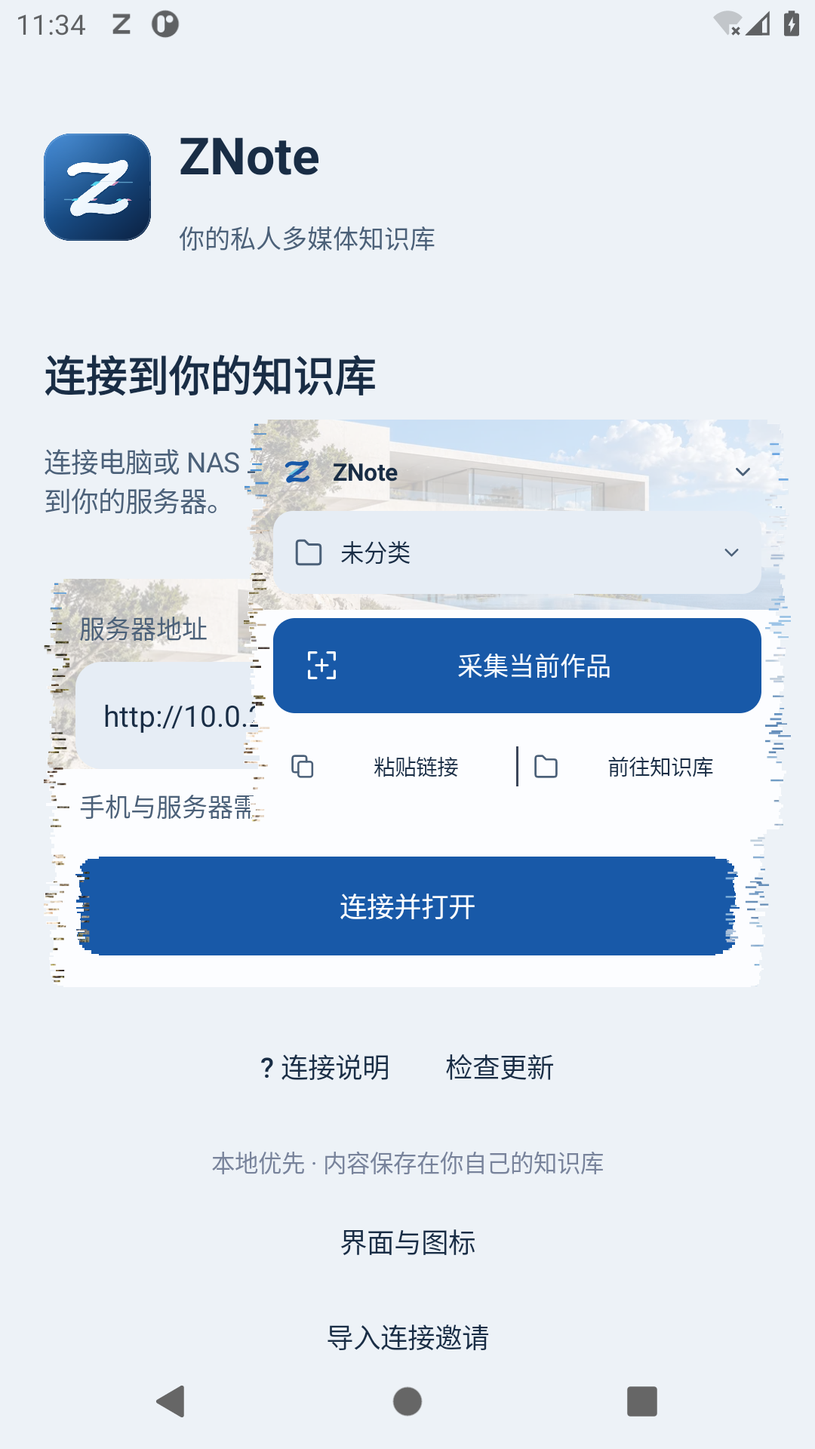
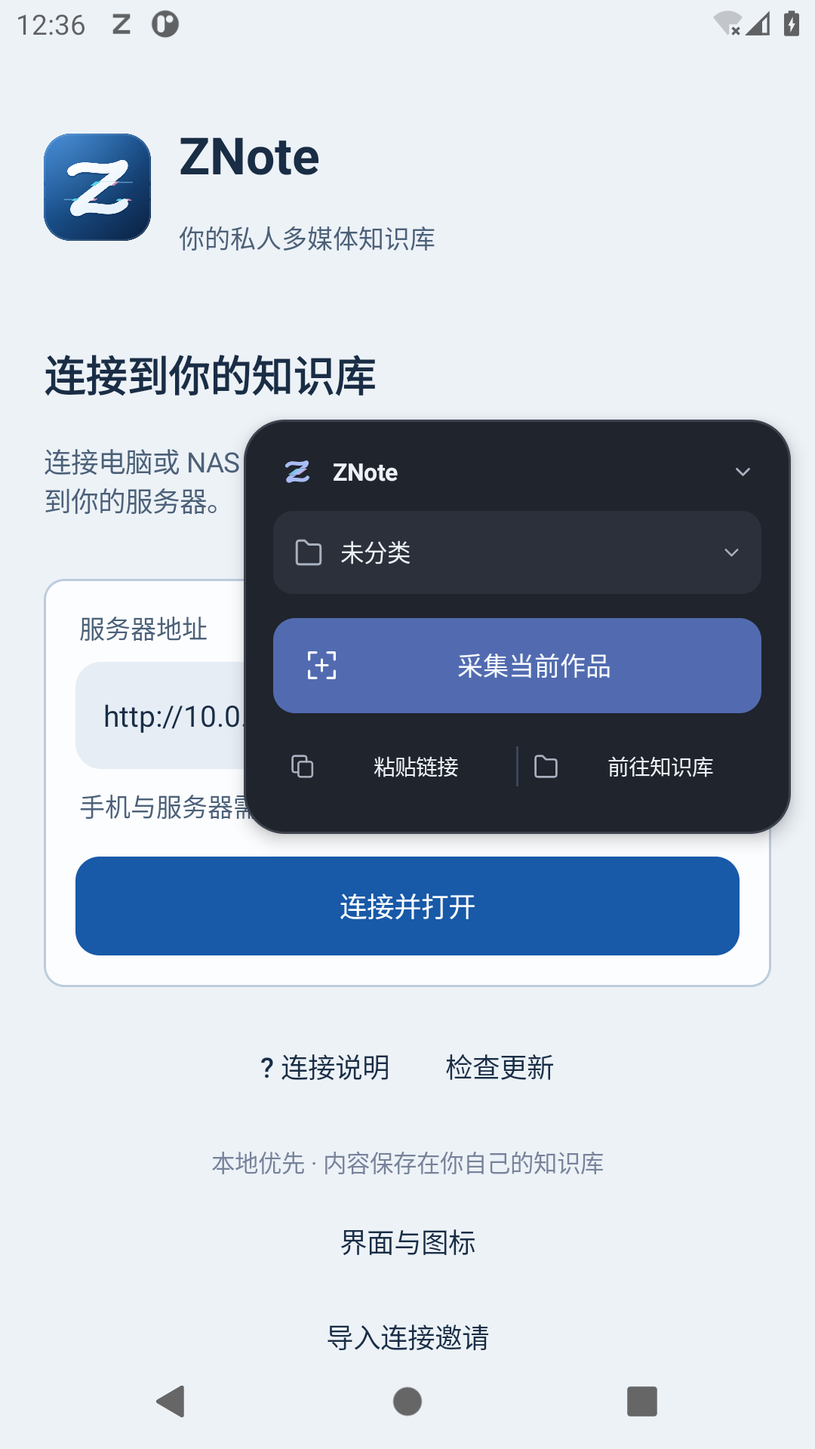
Polish Android capture panels and show the bookmark workflow (#4)
* Refine Android capture with smooth dark panels and document copy-link flow

* Correct mixed-platform retention version validation

* Keep the edge bookmark clean without glitch stripe decoration

diff --git a/clients/android/app/src/main/java/io/github/borderarea01/znote/NativeAppearance.java b/clients/android/app/src/main/java/io/github/borderarea01/znote/NativeAppearance.java
@@ -25,46 +25,16 @@ final class NativeAppearance {
     }catch(Exception e){throw new IllegalArgumentException("外观未保存，请重试",e);}}
     private static void launcher(Context c){PackageManager pm=c.getPackageManager();ComponentName classic=new ComponentName(c,c.getPackageName()+".LauncherClassic"),alternate=new ComponentName(c,c.getPackageName()+".LauncherGlitch");ComponentName enabled=glitch?alternate:classic,disabled=glitch?classic:alternate;try{if(Build.VERSION.SDK_INT>=33)pm.setComponentEnabledSettings(java.util.Arrays.asList(new PackageManager.ComponentEnabledSetting(enabled,PackageManager.COMPONENT_ENABLED_STATE_ENABLED,PackageManager.DONT_KILL_APP),new PackageManager.ComponentEnabledSetting(disabled,PackageManager.COMPONENT_ENABLED_STATE_DISABLED,PackageManager.DONT_KILL_APP)));else{pm.setComponentEnabledSetting(enabled,PackageManager.COMPONENT_ENABLED_STATE_ENABLED,PackageManager.DONT_KILL_APP);pm.setComponentEnabledSetting(disabled,PackageManager.COMPONENT_ENABLED_STATE_DISABLED,PackageManager.DONT_KILL_APP);}}catch(RuntimeException ignored){/* The in-app icon still changes if a launcher caches its shortcut. */}}
     static void choose(Activity a,Runnable changed){load(a);String[] labels={"经典","建筑故障"};int current=glitch?1:0;new AlertDialog.Builder(a).setTitle("界面外观").setSingleChoiceItems(labels,current,(d,which)->{d.dismiss();String next=which==1?"glitch":"minimal";new AlertDialog.Builder(a).setTitle("明暗模式").setSingleChoiceItems(new String[]{"跟随系统","浅色","夜间"},"system".equals(mode)?0:"light".equals(mode)?1:2,(dialog,i)->{dialog.dismiss();String selected=i==0?"system":i==1?"light":"dark";java.util.concurrent.ExecutorService worker=java.util.concurrent.Executors.newSingleThreadExecutor();worker.execute(()->{try{Bundle result=a.getContentResolver().call(android.net.Uri.parse("content://"+a.getPackageName()+".capture-session"),"appearance",new JSONObject().put("style",next).put("mode",selected).toString(),null);a.runOnUiThread(()->{if(!a.isFinishing()){apply(a,next,selected);changed.run();}});}catch(Exception e){a.runOnUiThread(()->Toast.makeText(a,"外观未保存，请重试",Toast.LENGTH_LONG).show());}finally{worker.shutdown();}});}).setNegativeButton("取消",null).show();}).setNegativeButton("取消",null).show();}
-    static Drawable panel(Context c,int radius){return glitch?new Panel(c,radius):NativeUi.shape(c,CaptureVisuals.SURFACE,radius);}
-    static Drawable control(Context c,int color,int radius){return glitch&&Color.alpha(color)>0?new Control(c,color,radius):NativeUi.shape(c,color,radius);}
-    /** A static material silhouette. Paths are rebuilt only when bounds change;
-     * labels, touch targets and user media are never copied or displaced. */
-    private static Bitmap photo;
-    private static Bitmap photo(Context c){if(photo==null)photo=BitmapFactory.decodeResource(c.getResources(),R.drawable.glitch_architecture);return photo;}
-    /** One uniform cover scale for every panel and edge material. */
+    /** Capture has its own quiet dark surface; the library theme and logo stay selected. */
+    static void capturePalette(){
+        NativeUi.BG=0xff15181e;NativeUi.SURFACE=0xff20242c;NativeUi.TEXT=0xffeef1f6;NativeUi.MUTED=0xffa8b0bf;NativeUi.ACCENT=0xffa8bcf5;
+        CaptureVisuals.INK=NativeUi.TEXT;CaptureVisuals.MUTED=NativeUi.MUTED;CaptureVisuals.ACCENT=NativeUi.ACCENT;
+        CaptureVisuals.SURFACE=NativeUi.SURFACE;CaptureVisuals.FIELD=0xff2b303a;CaptureVisuals.PRIMARY=0xff526bb0;CaptureVisuals.BORDER=0xff3c424e;
+        CaptureVisuals.SUCCESS=0xffa6bfdc;CaptureVisuals.WARNING=0xffd3b185;
+    }
+    static void loadCapture(Context c){load(c);capturePalette();}
+    static Drawable panel(Context c,int radius){android.graphics.drawable.GradientDrawable d=NativeUi.shape(c,CaptureVisuals.SURFACE,radius);d.setStroke(NativeUi.dp(c,1),CaptureVisuals.BORDER);return d;}
+    static Drawable control(Context c,int color,int radius){return NativeUi.shape(c,color,radius);}
+    /** Retained geometry utility for photo consumers: uniform cover, never stretch. */
     static RectF photoBounds(int width,int height,RectF target){float scale=Math.max(target.width()/Math.max(1,width),target.height()/Math.max(1,height));float w=width*scale,h=height*scale;return new RectF(target.centerX()-w/2,target.centerY()-h/2,target.centerX()+w/2,target.centerY()+h/2);}
-    private static void photo(Canvas c,Paint p,Bitmap image,RectF target){c.save();c.clipRect(target);c.drawBitmap(image,null,photoBounds(image.getWidth(),image.getHeight(),target),p);c.restore();}
-    static final class Frame {
-        final Path body=new Path(),grain=new Path();
-        void bounds(Rect b,float d,float radius,boolean compact){
-            body.reset();grain.reset();java.util.Random left=new java.util.Random(compact?73:34),right=new java.util.Random(compact?29:81);
-            float edge=(compact?7:13)*d,r=Math.min(radius,Math.min(b.width(),b.height())/2f);
-            for(float y=b.top;y<b.bottom;){float h=Math.min(b.bottom-y,(.55f+left.nextFloat()*(compact?1.3f:2.1f))*d),t=(y-b.top)/Math.max(1,b.height());
-                float burst=(float)Math.pow(Math.sin(t*Math.PI*3.4+34),6),a=Math.max(0,edge*(.34f+(left.nextFloat()-.5f)*(.25f+burst*.85f))),z=Math.max(0,edge*(.34f+(right.nextFloat()-.5f)*(.25f+burst*.85f)));
-                float near=Math.min(y-b.top,b.bottom-y-h),corner=near<r?r-(float)Math.sqrt(Math.max(0,r*r-(r-near)*(r-near))):0;
-                body.addRect(b.left+Math.max(corner,a),y,b.right-Math.max(corner,z),y+h,Path.Direction.CW);
-                if(left.nextFloat()<.25f+burst*.65f)grain.addRect(b.left+a,y,b.left+Math.min(edge,a+(2+left.nextFloat()*5)*d),y+Math.min(h,d),Path.Direction.CW);
-                if(right.nextFloat()<.25f+burst*.65f)grain.addRect(b.right-Math.min(edge,z+(2+right.nextFloat()*5)*d),y,b.right-z,y+Math.min(h,d),Path.Direction.CW);
-                y+=h;
-            }
-        }
-        void material(Canvas c,Paint p,Bitmap bitmap,Rect b,boolean dim){if(bitmap==null)return;c.save();c.clipPath(body);c.clipPath(grain);p.setAlpha(dim?150:220);photo(c,p,bitmap,new RectF(b));p.setAlpha(255);c.restore();}
-    }
-    static final class Control extends Drawable {
-        final Paint paint=new Paint(3);final Frame frame=new Frame();final float density,radius;final int color;final Bitmap image;
-        Control(Context c,int color,int radius){density=c.getResources().getDisplayMetrics().density;this.color=color;this.radius=radius*density;image=photo(c);}
-        @Override protected void onBoundsChange(Rect b){frame.bounds(b,density,radius,true);}
-        @Override public void draw(Canvas c){paint.setColor(color);c.drawPath(frame.body,paint);frame.material(c,paint,image,getBounds(),dark);}
-        @Override public void setAlpha(int value){}@Override public void setColorFilter(ColorFilter value){}@Override public int getOpacity(){return PixelFormat.TRANSLUCENT;}
-    }
-    static final class Panel extends Drawable {
-        final Paint paint=new Paint(3);final Frame frame=new Frame();final float density,radius;final Bitmap image;
-        Panel(Context c,int radius){density=c.getResources().getDisplayMetrics().density;this.radius=radius*density;image=photo(c);}
-        @Override protected void onBoundsChange(Rect b){frame.bounds(b,density,radius,false);}
-        @Override public void draw(Canvas c){Rect b=getBounds();paint.setColor(NativeUi.SURFACE);c.drawPath(frame.body,paint);
-            if(image!=null){c.save();c.clipPath(frame.body);float h=Math.min(96*density,b.height());paint.setAlpha(dark?56:66);photo(c,paint,image,new RectF(b.left,b.top,b.right,b.top+h));paint.setAlpha(255);c.restore();}
-            frame.material(c,paint,image,b,dark);
-        }
-        @Override public void setAlpha(int a){}@Override public void setColorFilter(ColorFilter f){}@Override public int getOpacity(){return PixelFormat.TRANSLUCENT;}
-    }
 }

diff --git a/clients/android/app/src/main/java/io/github/borderarea01/znote/CaptureAssistService.java b/clients/android/app/src/main/java/io/github/borderarea01/znote/CaptureAssistService.java
@@ -64,7 +64,7 @@ public class CaptureAssistService extends AccessibilityService {
     private final CopyLinkTrigger copyTrigger=new CopyLinkTrigger();
     private Runnable copyPrompt;
     private final java.util.concurrent.atomic.AtomicBoolean copyInspecting=new java.util.concurrent.atomic.AtomicBoolean();
-    private final BroadcastReceiver appearanceReceiver=new BroadcastReceiver(){@Override public void onReceive(Context c,Intent i){NativeAppearance.apply(c,i.getStringExtra("style"),i.getStringExtra("mode"));if(bubble!=null){bubble.removeAllViews();handle=null;panel=null;render();}}};
+    private final BroadcastReceiver appearanceReceiver=new BroadcastReceiver(){@Override public void onReceive(Context c,Intent i){NativeAppearance.apply(c,i.getStringExtra("style"),i.getStringExtra("mode"));NativeAppearance.capturePalette();if(bubble!=null){bubble.removeAllViews();handle=null;panel=null;render();}}};
     private SharedPreferences prefs(){return getSharedPreferences("CaptureAssist",MODE_PRIVATE);}
     private SharedPreferences sharingPrefs(){return getSharedPreferences("CaptureSharing",MODE_PRIVATE);}
     private int dp(int n){return Math.round(n*getResources().getDisplayMetrics().density);}
@@ -75,7 +75,7 @@ public class CaptureAssistService extends AccessibilityService {
         // capture keys, then leave the main process's connection settings alone.
         if(!prefs().contains("capture_bubble")){SharedPreferences legacy=getSharedPreferences("MainActivity",MODE_PRIVATE);prefs().edit().putBoolean("capture_bubble",legacy.getBoolean("capture_bubble",true)).putBoolean("capture_right",legacy.getBoolean("capture_right",true)).putFloat("capture_y",legacy.getFloat("capture_y",.32f)).apply();}
     }
-    @Override protected void onServiceConnected(){NativeAppearance.load(this);NativeAppearance.register(this,appearanceReceiver);current=this;manager=(WindowManager)getSystemService(WINDOW_SERVICE);savingJobs=trackedJobs().size();if(Build.VERSION.SDK_INT>=33)setCacheEnabled(false);android.accessibilityservice.AccessibilityServiceInfo info=getServiceInfo();info.eventTypes=0;setServiceInfo(info);record("connected","ready");recordEnvironment();if(prefs().getBoolean("capture_bubble",true))showBubble();notifyReady();scheduleTracking(0);loadLibraries(false);configureCopyPrompt();}
+    @Override protected void onServiceConnected(){NativeAppearance.loadCapture(this);NativeAppearance.register(this,appearanceReceiver);current=this;manager=(WindowManager)getSystemService(WINDOW_SERVICE);savingJobs=trackedJobs().size();if(Build.VERSION.SDK_INT>=33)setCacheEnabled(false);android.accessibilityservice.AccessibilityServiceInfo info=getServiceInfo();info.eventTypes=0;setServiceInfo(info);record("connected","ready");recordEnvironment();if(prefs().getBoolean("capture_bubble",true))showBubble();notifyReady();scheduleTracking(0);loadLibraries(false);configureCopyPrompt();}
     @Override public void onAccessibilityEvent(AccessibilityEvent event){
         if(event==null||event.isPassword()||busy||ShareActivity.captureVisible||bubble==null||!prefs().getBoolean("copy_link_prompt",true))return;
         String owner=String.valueOf(event.getPackageName());if(owner.equals(getPackageName())||owner.equals("null"))return;
@@ -107,7 +107,7 @@ public class CaptureAssistService extends AccessibilityService {
     void configureCopyPrompt(){android.accessibilityservice.AccessibilityServiceInfo info=getServiceInfo();if(info==null)return;info.eventTypes=visible()&&prefs().getBoolean("copy_link_prompt",true)?AccessibilityEvent.TYPE_VIEW_CLICKED|AccessibilityEvent.TYPE_NOTIFICATION_STATE_CHANGED:0;info.notificationTimeout=80;setServiceInfo(info);}
     @Override public void onInterrupt(){cancel();if(bubble!=null)message("采集被系统中断，可重新尝试");}
     @Override public void onDestroy(){try{unregisterReceiver(appearanceReceiver);}catch(Exception ignored){}hideBubble();record("service_destroy","called");diagnostics.shutdown();reader.shutdownNow();catalogue.shutdownNow();tracker.shutdownNow();((android.app.NotificationManager)getSystemService(NOTIFICATION_SERVICE)).cancel(3741);if(current==this)current=null;super.onDestroy();}
-    @Override public void onConfigurationChanged(Configuration config){super.onConfigurationChanged(config);NativeAppearance.load(this);if(bubble!=null){bubble.removeAllViews();handle=null;panel=null;}cancel();expanded=false;libraryMenuExpanded=false;render();}
+    @Override public void onConfigurationChanged(Configuration config){super.onConfigurationChanged(config);NativeAppearance.loadCapture(this);if(bubble!=null){bubble.removeAllViews();handle=null;panel=null;}cancel();expanded=false;libraryMenuExpanded=false;render();}
     void record(String event,String detail){android.util.Log.i("ZNoteCapture",event+" "+detail);if(!diagnostics.isShutdown())diagnostics.execute(()->writeDiagnostic(event,detail));}
     private void recordEnvironment(){if(diagnostics.isShutdown())return;diagnostics.execute(()->{try{
         android.app.ActivityManager am=(android.app.ActivityManager)getSystemService(ACTIVITY_SERVICE);
@@ -163,7 +163,7 @@ public class CaptureAssistService extends AccessibilityService {
         if(bubble==null)return;
         boolean right=prefs().getBoolean("capture_right",true);
         bubble.setPadding(expanded?dp(15):0,expanded?dp(8):0,expanded?dp(15):0,expanded?dp(10):0);
-        if(expanded){GradientDrawable bg=shape(CaptureVisuals.SURFACE,20);bg.setStroke(dp(1),CaptureVisuals.BORDER);bubble.setBackground(NativeAppearance.glitch?NativeAppearance.panel(this,12):bg);}else bubble.setBackground(null);
+        if(expanded){GradientDrawable bg=shape(CaptureVisuals.SURFACE,20);bg.setStroke(dp(1),CaptureVisuals.BORDER);bubble.setBackground(NativeAppearance.glitch?NativeAppearance.panel(this,20):bg);}else bubble.setBackground(null);
         bubble.setElevation(expanded?dp(6):0);layout.flags=windowFlags();
         bubble.setOnTouchListener((v,e)->{if(e.getActionMasked()==MotionEvent.ACTION_OUTSIDE&&expanded){expanded=false;libraryMenuExpanded=false;render();return true;}return false;});
         if(handle==null){
@@ -172,7 +172,7 @@ public class CaptureAssistService extends AccessibilityService {
         handle.setText(expanded?"ZNote":"");handle.setTextSize(12);handle.setTypeface(null,android.graphics.Typeface.BOLD);
         handle.setContentDescription(expanded?"ZNote 采集面板；点击标题收起，拖动标题可移动":dragging?"ZNote 完整页签按钮，正在移动":working()?"ZNote 正在后台采集，点击查看":resultPending?"ZNote 采集结果："+lastMessage:"ZNote 贴边页签，点击展开，拖动换位置");
         handle.setPadding(expanded?dp(2):0,0,expanded?dp(2):0,0);
-        if(expanded){handle.setBackground(null);handle.setCompoundDrawablesWithIntrinsicBounds(CaptureVisuals.icon(this,"z",NativeAppearance.glitch?CaptureVisuals.ACCENT:0xffa3b6a8,20),null,CaptureVisuals.icon(this,"down",CaptureVisuals.MUTED,15),null);handle.setCompoundDrawablePadding(dp(8));}
+        if(expanded){handle.setBackground(null);handle.setCompoundDrawablesWithIntrinsicBounds(CaptureVisuals.icon(this,"z",CaptureVisuals.ACCENT,20),null,CaptureVisuals.icon(this,"down",CaptureVisuals.MUTED,15),null);handle.setCompoundDrawablePadding(dp(8));}
         else{handle.setCompoundDrawables(null,null,null,null);handleArtwork.state(right,dragging?1:handleReveal,artworkState());handle.setBackground(handleArtwork);}
         handle.setLayoutParams(new LinearLayout.LayoutParams(-1,dp(expanded?36:48)));
         if(panel==null){

diff --git a/clients/android/app/src/main/java/io/github/borderarea01/znote/ShareActivity.java b/clients/android/app/src/main/java/io/github/borderarea01/znote/ShareActivity.java
@@ -71,7 +71,7 @@ public class ShareActivity extends Activity {
         if(status!=null){status.setMaxLines(open?2:3);status.setEllipsize(open?android.text.TextUtils.TruncateAt.END:null);}
     }
     @Override public void onCreate(Bundle state){
-        if(getIntent().getBooleanExtra("fresh_capture",false)){state=null;getIntent().removeExtra("fresh_capture");}super.onCreate(state);NativeAppearance.load(this);NativeAppearance.window(this);timing("panel_create");
+        if(getIntent().getBooleanExtra("fresh_capture",false)){state=null;getIntent().removeExtra("fresh_capture");}super.onCreate(state);NativeAppearance.loadCapture(this);NativeAppearance.window(this);timing("panel_create");
         if(state!=null){requestId=state.getString("requestId",requestId);jobId=state.getString("jobId","");submissionOrigin=state.getString("submissionOrigin","");uploaded=state.getInt("uploaded",0);}
         Intent intent=getIntent();String shared=sharedText(intent);
         try{
@@ -90,11 +90,11 @@ public class ShareActivity extends Activity {
         ScrollView scroll=new ScrollView(this);scroll.setFillViewport(false);scroll.addView(root);setContentView(chrome);
         if(floating()){
             chrome.setPadding(dp(15),dp(8),dp(15),dp(10));
-            android.graphics.drawable.GradientDrawable bg=new android.graphics.drawable.GradientDrawable();bg.setColor(CaptureVisuals.SURFACE);bg.setCornerRadius(dp(20));bg.setStroke(dp(1),CaptureVisuals.BORDER);chrome.setBackground(NativeAppearance.glitch?NativeAppearance.panel(this,12):bg);chrome.setClipToOutline(true);
+            android.graphics.drawable.GradientDrawable bg=new android.graphics.drawable.GradientDrawable();bg.setColor(CaptureVisuals.SURFACE);bg.setCornerRadius(dp(20));bg.setStroke(dp(1),CaptureVisuals.BORDER);chrome.setBackground(NativeAppearance.glitch?NativeAppearance.panel(this,20):bg);chrome.setClipToOutline(true);
             resizePanel();
             getWindow().setGravity(Gravity.CENTER);setFinishOnTouchOutside(false);
         }
-        TextView panelTitle=label("保存到 ZNote",floating()?14:26);panelTitle.setTypeface(null,android.graphics.Typeface.BOLD);panelTitle.setCompoundDrawablesWithIntrinsicBounds(CaptureVisuals.icon(this,"z",NativeAppearance.glitch?CaptureVisuals.ACCENT:0xffa3b6a8,20),null,null,null);panelTitle.setCompoundDrawablePadding(dp(8));
+        TextView panelTitle=label("保存到 ZNote",floating()?14:26);panelTitle.setTypeface(null,android.graphics.Typeface.BOLD);panelTitle.setCompoundDrawablesWithIntrinsicBounds(CaptureVisuals.icon(this,"z",CaptureVisuals.ACCENT,20),null,null,null);panelTitle.setCompoundDrawablePadding(dp(8));
         LinearLayout titleRow=new LinearLayout(this);titleRow.setGravity(Gravity.CENTER_VERTICAL);titleRow.addView(panelTitle,new LinearLayout.LayoutParams(0,-2,1));
         {Button close=button("",this::finish);CaptureVisuals.action(close,"close",false);close.setPadding(dp(14),0,dp(14),0);close.setContentDescription("收起采集面板");titleRow.addView(close,new LinearLayout.LayoutParams(dp(44),dp(44)));}chrome.addView(titleRow);chrome.addView(scroll,new LinearLayout.LayoutParams(-1,0,1));
         if(floating())panelTitle.setOnTouchListener(new View.OnTouchListener(){float x,y;int ox,oy;public boolean onTouch(View v,android.view.MotionEvent e){WindowManager.LayoutParams p=getWindow().getAttributes();if(e.getActionMasked()==MotionEvent.ACTION_DOWN){x=e.getRawX();y=e.getRawY();ox=p.x;oy=p.y;return true;}if(e.getActionMasked()==MotionEvent.ACTION_MOVE){int maxX=Math.max(0,(getResources().getDisplayMetrics().widthPixels-getWindow().getDecorView().getWidth())/2-dp(12)),maxY=Math.max(0,(getResources().getDisplayMetrics().heightPixels-getWindow().getDecorView().getHeight())/2-dp(24));p.x=Math.max(-maxX,Math.min(maxX,ox+(int)(e.getRawX()-x)));p.y=Math.max(-maxY,Math.min(maxY,oy+(int)(e.getRawY()-y)));getWindow().setAttributes(p);return true;}return true;}});

diff --git a/clients/android/app/src/androidTest/java/io/github/borderarea01/znote/GlitchAppearanceSmoke.java b/clients/android/app/src/androidTest/java/io/github/borderarea01/znote/GlitchAppearanceSmoke.java
@@ -16,6 +16,7 @@ final class GlitchAppearanceSmoke {
     void run(){Bundle result=new Bundle();try{
         for(RectF target:new RectF[]{new RectF(0,0,900,50),new RectF(0,0,120,700),new RectF(25,40,400,260)}){RectF cover=NativeAppearance.photoBounds(720,480,target);check(Math.abs(cover.width()/720-cover.height()/480)<0.001f,"Photo scale distorted");check(cover.left<=target.left+.01f&&cover.top<=target.top+.01f&&cover.right>=target.right-.01f&&cover.bottom>=target.bottom-.01f,"Photo did not cover panel");}
 
+        for(String m:new String[]{"light","dark"}){NativeAppearance.apply(context,"glitch",m);NativeAppearance.capturePalette();Bitmap b=Bitmap.createBitmap(360,240,Bitmap.Config.ARGB_8888);android.graphics.drawable.Drawable panel=NativeAppearance.panel(context,20);panel.setBounds(0,0,360,240);panel.draw(new Canvas(b));int surface=CaptureVisuals.SURFACE;check(Color.red(surface)<50,"Capture must stay dark");for(int y=60;y<180;y+=3){check(b.getPixel(180,y)==surface,"Unexpected photo/noise in panel");check(b.getPixel(0,y)==b.getPixel(0,120),"Jagged panel edge");}check(b.getPixel(0,0)==Color.TRANSPARENT,"Rounded corner must be transparent");b.recycle();}
         check(Build.MODEL.contains("sdk"),"Isolated emulator only");android.accessibilityservice.AccessibilityServiceInfo info=ui.getServiceInfo();info.flags|=android.accessibilityservice.AccessibilityServiceInfo.FLAG_RETRIEVE_INTERACTIVE_WINDOWS;ui.setServiceInfo(info);context.getSharedPreferences("ZNoteUpdates",0).edit().putBoolean("auto_check",false).commit();
         context.getSharedPreferences("MainActivity",0).edit().putString("origin","http://10.0.2.2:3747").commit();context.getSharedPreferences("CaptureAuthorization",0).edit().putString(android.net.Uri.encode("http://10.0.2.2:3747"),"zn_"+"0".repeat(64)).commit();
         set("glitch","light");launcher("LauncherGlitch");Intent start=context.getPackageManager().getLaunchIntentForPackage(context.getPackageName()).addFlags(Intent.FLAG_ACTIVITY_NEW_TASK);MainActivity main=(MainActivity)test.startActivitySync(start);node("连接到你的知识库").recycle();shot("connect-light");tap("界面与图标");tap("经典");tap("取消");launcher("LauncherGlitch");

diff --git a/clients/android/app/src/main/java/io/github/borderarea01/znote/CaptureVisuals.java b/clients/android/app/src/main/java/io/github/borderarea01/znote/CaptureVisuals.java
@@ -75,7 +75,6 @@ final class CaptureVisuals {
             path.reset();path.moveTo(r,0);path.lineTo(w-r,0);path.quadTo(w,0,w,r);path.lineTo(w,h-bottomRadius);path.quadTo(w,h,w-bottomRadius,h);path.lineTo(w*.5f,h-cut);path.lineTo(bottomRadius,h);path.quadTo(0,h,0,h-bottomRadius);path.lineTo(0,r);path.quadTo(0,0,r,0);path.close();
             paint.setStyle(Paint.Style.FILL);paint.setColor(SURFACE);paint.setAlpha(Math.round(220+35*free));c.drawPath(path,paint);
             paint.setStyle(Paint.Style.STROKE);paint.setColor(NativeAppearance.glitch?BORDER:0xff596780);paint.setAlpha(255);paint.setStrokeWidth(density);c.drawPath(path,paint);
-            if(NativeAppearance.glitch){paint.setStyle(Paint.Style.FILL);paint.setColor(0xff76bed7);c.drawRect(0,7*density,w*.7f,8*density,paint);paint.setColor(0xffcf9ab3);c.drawRect(w*.4f,10*density,w,11*density,paint);}
             if(free>.05f){
                 paint.setColor(INK);paint.setAlpha(Math.round(255*free));float s=23*density;logo(c,new RectF((w-s)/2,(h-s)/2,(w+s)/2,(h+s)/2),paint);
                 paint.setColor(0xff72819d);paint.setAlpha(Math.round(255*free));paint.setStrokeWidth(density);paint.setStyle(Paint.Style.STROKE);Path fold=new Path();fold.moveTo(w-11*density,3*density);fold.lineTo(w-11*density,10*density);fold.lineTo(w-4*density,10*density);c.drawPath(fold,paint);

diff --git a/README.md b/README.md
@@ -26,13 +26,15 @@
 
 | 在哪里看见 | 怎么采集 | 保存之后 |
 | :--- | :--- | :--- |
-| Android 上的 App 或网站 | 系统分享给 ZNote，或展开浮窗；可识别时采集当前作品，也可读取剪贴板或直接粘贴链接，先选目标知识库 | 提交后收起浮窗继续浏览，后台保存，结果和失败重试留在任务里 |
+| Android 上的 App 或网站 | 复制作品分享链接，自动弹出保存浮窗并选择知识库；也支持系统分享、当前作品采集和粘贴链接 | 提交后收起浮窗继续浏览，后台保存，结果和失败重试留在任务里 |
 | 电脑浏览器 | 页面边缘展开采集工具，保存当前作品；悬停单图入库，也能保存正文、框选截图或嗅探到的视频 | 页面内反馈进度，图组保留页序，正文进入备注，来源可回看 |
 | 微信收集会话 | 给已绑定的入口发送文字和图片 | 可按天或手动分篇合成图文笔记 |
 
 **在家优先局域网，在外可用远程收件箱。** Android 和主浏览器扩展在已配置、已授权的局域网连接可用时优先直连；不可达时，可通过 Cloudflare 备用入口提交作品链接，由仍在运行的电脑下载入库。远程收件箱不等于完整图库的公网访问，也不承接所有文件上传；截图上传等操作仍需要直连。完整图库远程浏览需另配访问通道。
 
 ### 手机：选好知识库，再交给后台
+
+<p align="center"><img src="docs/images/capture-android-bookmark.png" width="300" alt="Android 实际贴边小书签，点击展开采集，拖动换位置" /></p>
 
 <table><tr><td align="center"><img src="docs/images/capture-android-quick.png" width="300" alt="Android 客户端实际小浮窗：选知识库、采集当前作品、粘贴链接和前往知识库" /></td><td align="center"><img src="docs/images/capture-android-save.png" width="300" alt="Android 客户端实际保存面板：作品链接、目标知识库与图片组保存方式" /></td><td align="center"><img src="docs/images/capture-mobile-remote.png" width="300" alt="手机尺寸远程采集页：连接后的选库、提交与任务完成状态" /></td></tr></table>
 
@@ -228,7 +230,7 @@ ZNote 面向以图片为主的个人资料整理。**一张图片可以是素材
 
 ## 多设备访问，选择喜欢的外观
 
-新增可选 **建筑故障 Glitch Art**：晴空建筑摄影、横向像素切片和轻微 RGB 色偏，搭配可识别的手写 Z。电脑与手机网页在「设置与连接 → 外观」选择；Android beta.26 起可从「界面与图标」同步切换原生面板、采集浮窗与桌面图标。支持浅色、夜间及随系统切换，原主题保留，原始图片与视频不加滤镜。[视觉素材与生成说明](docs/design/glitch/README.md)
+新增可选 **建筑故障 Glitch Art**：晴空建筑摄影、横向像素切片和轻微 RGB 色偏，搭配可识别的手写 Z。电脑与手机网页在「设置与连接 → 外观」选择；Android beta.26 起可从「界面与图标」同步切换原生连接页与桌面图标；采集浮窗保持独立的深色平滑面板和小书签。支持浅色、夜间及随系统切换，原主题保留，原始图片与视频不加滤镜。[视觉素材与生成说明](docs/design/glitch/README.md)
 
 控件皮肤进一步把横向撕裂、摄影切片及像素碎片延伸到按钮和容器，悬停时短暂错位与飘散，文字和点击区域保持稳定。浏览器的贴边采集入口支持鼠标掠过展开、拖拽调整和触屏点击。
 
@@ -254,7 +256,9 @@ ZNote 面向以图片为主的个人资料整理。**一张图片可以是素材
 
 ## Android：浏览时收集，后台保存
 
-在其他 App 中使用系统 **「分享 → ZNote」**，或打开悬浮采集入口，将作品链接交给正在运行的服务器解析。浮窗可以拖动、贴边收起，记住目标知识库，并提供返回 ZNote 浏览的入口。提交任务后可以继续浏览，保存结果可从浮窗和任务记录中查看，失败任务保留原因与重试入口。
+在其他 App 中使用系统 **「分享 → ZNote」**，或打开悬浮采集入口，将作品链接交给正在运行的服务器解析。开启「复制链接后打开保存面板」及无障碍采集辅助后，在原 App 点击「复制链接」，ZNote 会弹出大浮窗并填入分享内容，选择目标知识库后确认保存。目前适配 **Bilibili / 百度贴吧 / 小红书 / YouTube / Pixiv** 的作品分享链接；Pixiv 受限作品需在 ZNote 内登录，YouTube 受限内容仍取决于账号授权与平台验证。
+
+浮窗采用干净的深色面板，可以拖动、贴边收成小书签，记住目标知识库，并提供返回 ZNote 浏览的入口。提交任务后可以继续浏览，保存结果可从浮窗和任务记录中查看，失败任务保留原因与重试入口。
 
 小红书、抖音和 B 站有专用解析路径，支持平台提供的图文、视频及多段实况内容；实况内容按可取得的视频段保存。贴吧帖子可通过分享链接采集楼主配图，默认保存为图片组，正文进入备注。其他网页尝试通用解析。无法自动取得当前作品链接时，可在浮窗粘贴分享文字，无需切回主页面。平台验证、登录状态或资源不可访问仍可能导致采集失败。
 

diff --git a/docs/PROJECT_MEMORY.md b/docs/PROJECT_MEMORY.md
@@ -588,3 +588,10 @@
 - 受控release/debug/test编译与Lint通过；隔离Android30几何断言覆盖宽窄容器，浅深色大小面板、Pixiv入口、外观选择/取消、单Launcher、持久化、无刷新WebView桥接通过，截图已目视（artifacts/android-appearance-local-C5D1AD）。GlitchAppearanceSmoke第二次startActivitySync会因singleTop复用实例永远等不到新实例；修正为恢复原Activity，全部原断言保留。没有荣耀真机验证。
 - 网页四种原主题/五种色调的浅深色对比度、桌面触屏、关闭、持久化/坏设置恢复通过；2项旧绿色首帧迁移单测通过，主扩展真实两图入库与反馈通过。候选生产构建artifacts/build-neutral，原生/扩展README截图已换成本轮实测。Windows原生包未重建，仍Windows28；网页主题修复由运行服务加载。
 - 本轮在codex/neutral-surfaces-photo-fit分支走PR+双平台CI，候选Android29/扩展0.9.51通过门禁后发布；项目仅保留当前29与唯一28回退包，Windows28原安装包及匹配源码仍有效并保留。其他Topfaps/HLS未提交变更不混入。
+
+## 2026-11-03 深色采集浮窗与书签展示
+- 用户拒绝原生静态毛刺/碎边，要求回归成熟深色面板，保留喜欢的B小书签。NativeAppearance移除随机条带轮廓、照片与边缘纹理；采集进程独立中性深色palette，不改变图库外观选择或故障Z图标，20dp平滑圆角与细描边。
+- README明确「复制链接后打开保存面板」开关、无障碍权限、选库确认流程及Bilibili/贴吧/小红书/YouTube/Pixiv适配与登录限制；实际模拟器截图展示大小面板和小书签。
+- Android30/10030原签名29→30升级及glitch light/dark原生面板、书签/小展开、选项取消、Pixiv入口、主题持久化与WebView不重载均通过，artifacts/android-appearance-local-RRgglK；荣耀真机未连接，不能宣称真机验证。
+
+- 用户进一步明确：小书签不要两行故障像素。已移除青色/粉色条纹，只保留轮廓、竖向把手与必要状态提示；不再擅自为极小收起控件添加故障装饰。

diff --git a/AGENTS.md b/AGENTS.md
@@ -2,7 +2,7 @@
 
 - 保留当前有效版本，并且整个 ZNote 项目最多保留一份已验证可用的回退版本；不能按平台、分支或验收目录分别累计回退。
 - 新版验证并成为当前版本后，清理更旧安装包、候选包、重复归档和可再生的大型中间产物。保留源码、原始素材、用户数据、配置和签名密钥；清理前核对路径、进程占用和唯一回退文件及哈希，不越过工作区或跟随符号链接。
-- 本轮已验证发布目标为 Windows beta.28 与 Android beta.29；整个项目唯一回退为 beta.28 项目包（Windows28、原签名Android28及各自匹配源码），发布状态以 Release/Pages 和本地 receipt 核对为准。Android29 已通过受控编译/Lint、隔离模拟器背景等比缩放与浮窗操作、原签名28→29覆盖升级，荣耀真机未连接。当前29包记录 windows_version=0.10.0-beta.28，Windows28的原安装包与源码仍须保留；不能按平台增加回退。
+- 本轮已验证发布目标为 Windows beta.28 与 Android beta.30；整个项目唯一回退为 beta.29 项目包（Windows28、原签名Android29及各自匹配源码），发布状态以 Release/Pages 和本地 receipt 核对为准。Android30 已通过受控编译/Lint、隔离模拟器深色平滑浮窗与书签操作、原签名29→30覆盖升级，荣耀真机未连接。当前30包记录 windows_version=0.10.0-beta.28，Windows28的原安装包与源码仍须保留；不能按平台增加回退。
 
 # 游戏运行时的轻量构建许可（2026-10-13）
 

diff --git a/docs/images/README.md b/docs/images/README.md
@@ -11,6 +11,6 @@
 
 ## 多端采集截图（2026-11-03）
 
-- capture-android-quick/save：2026-11-03 隔离模拟器的实际 Android 原生面板，来自已目视检查的 android-appearance-local-C5D1AD 验收；不是手机网页或真实荣耀手机截图，示例链接不代表采集结果。
+- capture-android-quick/save/bookmark：2026-11-03 隔离模拟器的实际 Android 原生面板，来自已目视检查的 android-appearance-local-RRgglK 验收；不是手机网页或真实荣耀手机截图，示例链接不代表采集结果。
 - capture-mobile-remote：tests/cloudflare-inbox-ui.mjs --docs，当前 Worker 页面，zh-CN/Asia-Shanghai、390px触屏，隔离D1和实际本地API完成采集、失败与重试。
 - capture-browser-tools/saved：tests/capture-showcase-ui.mjs，实际加载的 Edge 扩展和隔离本地服务；原创演示网页/配图，真实提交并核对两张图片入库。未包含个人令牌、二维码或私人素材。
